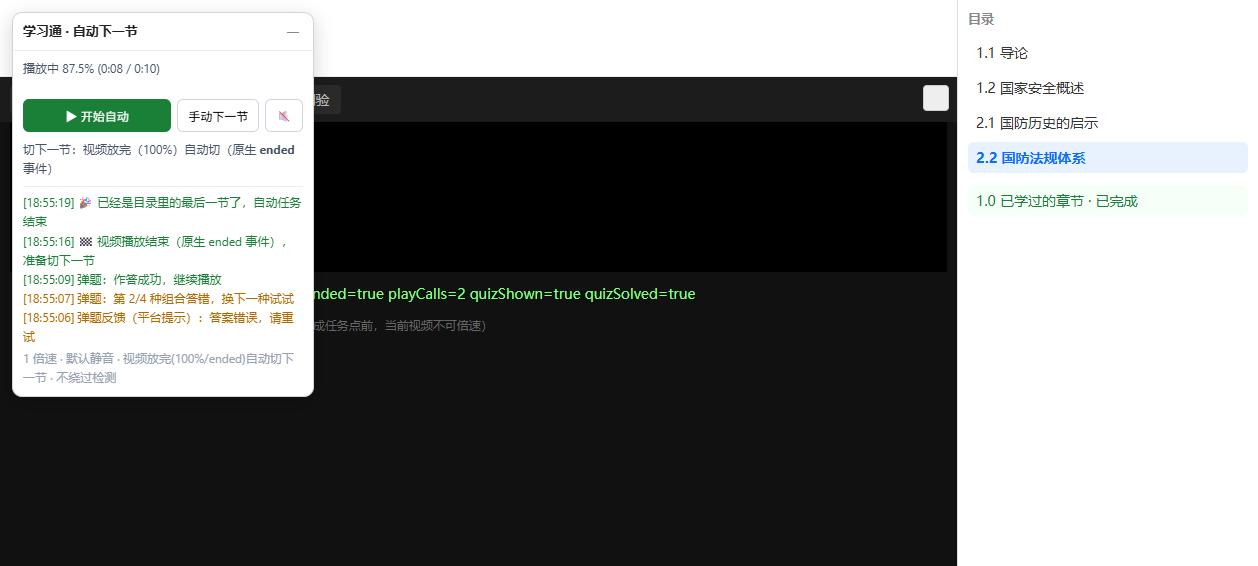
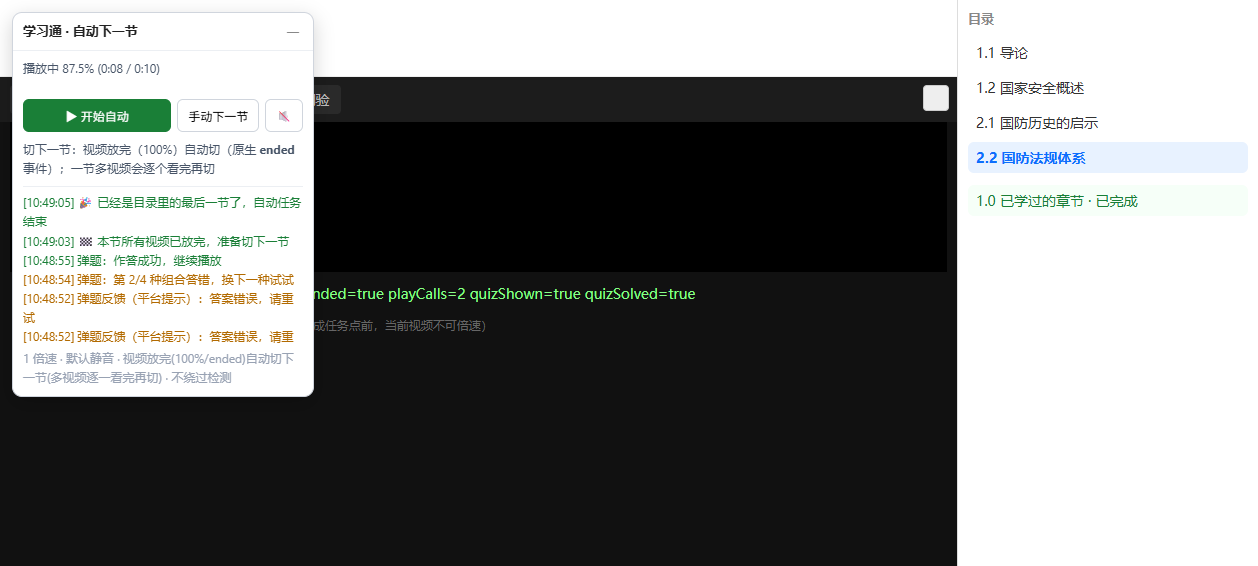
v1.3.21: 修复「一节多个视频时看完第一段就切走」的 bug
- 新增 watchedKeys 记录本节已放完的视频；切章收口到 handlePlaybackDone(key)
- 一段视频 ended 后先查 firstUnwatchedVisible：还有别的可见视频没看完就接着看（不切章），全部看完才 doSwitch
- 新增 activeVideos()（按 DOM 顺序）/ firstUnwatchedVisible()，主循环改选「本节还没放完的可见视频」
- doSwitch 切章成功后清空 watchedKeys，新节重新记
- mock 新增 index_multi.html + layer2_multi.html（一页两段视频）+ run_selftest_multi.sh 验证
- 自测双通过：多视频节两段都播到 100% 才切（switchStates 两 video ended=true），原 4 节连切回归无回归

diff --git a/chaoxing-auto-next.user.js b/chaoxing-auto-next.user.js
@@ -1,7 +1,7 @@
 // ==UserScript==
 // @name         超星学习通 · 自动播放 + 播完自动下一节
 // @namespace    workbuddy.chaoxing.autonext
-// @version      1.3.20
+// @version      1.3.21
 // @description  自动播放当前章节的视频；播放完成后自动点击右侧目录的下一节并继续播放。不加速、不绕过平台的防挂机检测（视频内弹出的单选/多选题会自动尝试作答，多选暴力枚举组合）。
 // @author       WorkBuddy
 // @match        *://*.chaoxing.com/mycourse/studentstudy*
@@ -16,6 +16,8 @@
  * 本脚本只做两件"免手动操作"的事：
  *   1) 进入某节后，自动点一下播放键（你本来也要点的）；
  *   2) 切下一节：视频播放到 100% 自然结束（原生 ended 事件）就自动切到下一节。v1.3.20 已彻底删除"智能/100%"阈值切换按钮，只保留这一种"默认百分百"行为（对齐主流 2.8k★ 脚本）：
+ *      · v1.3.21 起支持「一页多个视频」：某段视频放完后，先检查本节还有没有别的可见视频没看完——
+ *        有就接着看下一个（不切章），全部看完才切到下一节。
  *        · 进入某节、接管 <video> 后，给视频绑定原生 addEventListener('ended', …)；
  *        · 视频一旦播放到 100%（浏览器原生 ended 事件），等 SWITCH_DELAY_MS 让平台落库，再点右侧目录的下一节；
  *        · **不再轮询"任务点完成"徽章**（.ans-job-icon 的雪碧图换位 / aria-label——这些是平台易变、
@@ -76,6 +78,7 @@
   let lastKey = '';              // 当前已接管的视频标识
   let endedBoundVideo = null;     // 已绑定 ended 监听的视频元素（每个视频只绑一次）
   let endedSwitchInitiated = false; // 本视频的"播放结束→切下一节"是否已发起（防 ended 事件重复/抖动触发）
+  let watchedKeys = {};           // 本节（当前页面）已经放完的视频标识集合（多视频页：放完一个接着看下一个，全部放完才切章）
   let lastTabTryAt = 0;          // 上次尝试点「视频」标签的时间
   let tabMissLogged = false;     // 「本节没有视频标签」只提醒一次
   let quizState = null;          // 当前正在处理的弹题状态
@@ -148,6 +151,30 @@
     }
     out.sort(function (a, b) { return (b.duration || 0) - (a.duration || 0); });
     return out;
+  }
+
+  /* 当前页面里"看得见"的 <video>，按 DOM 顺序返回（多视频页用于从上到下逐个看）。
+     与 findVideos 不同：这里不按时长排序，保持页面上的先后顺序。 */
+  function activeVideos() {
+    const out = [];
+    const docs = collectDocs();
+    for (let i = 0; i < docs.length; i++) {
+      let vs = [];
+      try { vs = docs[i].querySelectorAll('video'); } catch (e) { continue; }
+      for (let j = 0; j < vs.length; j++) {
+        if (isVisible(vs[j])) out.push(vs[j]);
+      }
+    }
+    return out; // 已是各 document 内的 DOM 顺序（外层 doc 先、iframe 后）
+  }
+
+  /* 本节里第一个"还没放完"的可见视频（跳过已记入 watchedKeys 的） */
+  function firstUnwatchedVisible() {
+    const actives = activeVideos();
+    for (let i = 0; i < actives.length; i++) {
+      if (!watchedKeys[videoKey(actives[i])]) return actives[i];
+    }
+    return null;
   }
 
   function videoKey(v) {
@@ -558,6 +585,7 @@
       lastKey = '';
       tabMissLogged = false;
       lastTabTryAt = 0;
+      watchedKeys = {}; // 进入新的一节，清空"本节已放完视频"记录，重新从第一个视频看起
       setTimeout(function () { switching = false; }, ok ? 4000 : 1200);
     }, CFG.SWITCH_DELAY_MS);
   }
@@ -575,11 +603,29 @@
     try { v.addEventListener('ended', onVideoEnded); } catch (e) {}
   }
 
+  /* 一个视频放完（ended 事件或轮询兜底）的统一处理：
+     - 先把这个视频记入"已放完"；
+     - 再看本节还有没有"还没放完的可见视频"：有就接着看下一个（不切章），全部放完才切下一节。 */
+  function handlePlaybackDone(key) {
+    if (endedSwitchInitiated) return;            // 防止同一次结束被 ends 事件 + 轮询兜底重复处理
+    endedSwitchInitiated = true;
+    if (key) watchedKeys[key] = true;            // 标记本节这个视频已看完
+    const next = firstUnwatchedVisible();
+    if (next) {
+      /* 本节还有别的视频没看 → 不切章，接着看下一个 */
+      log('📼 本节还有未看完的视频，接着看下一个（不切章）', 'ok');
+      endedSwitchInitiated = false;              // 允许下一个视频放完时再次触发
+      lastKey = '';                              // 让 tick 接管下一个视频（重新播放+绑 ended）
+      return;
+    }
+    /* 本节所有可见视频都放完了 → 切下一节 */
+    log('🏁 本节所有视频已放完，准备切下一节', 'ok');
+    doSwitch();
+  }
+
   function onVideoEnded() {
     if (endedSwitchInitiated) return;            // 防 ended 事件重复/抖动触发
-    endedSwitchInitiated = true;
-    log('🏁 视频播放结束（原生 ended 事件），准备切下一节', 'ok');
-    doSwitch();
+    handlePlaybackDone(videoKey(endedBoundVideo));
   }
 
   /* ================================================================
@@ -609,17 +655,22 @@
       quizState = null;
     }
 
-    const vids = findVideos();
-    /* 优先用"看得见"的视频（隐藏的 <video> 播了也不算数） */
-    const v = vids.filter(isVisible)[0];
+    const vids = findVideos();                 // 仅用于"页面有没有视频"的状态判断
+    /* 多视频页：优先看"本节还没放完的可见视频"（按 DOM 顺序从上到下逐个看） */
+    const v = firstUnwatchedVisible();
 
     if (!v) {
-      if (vids.length) {
-        setStatus('检测到视频但当前标签页里看不到它，正在切到「视频」标签…');
-      } else {
-        setStatus('当前页面还没出现视频，正在尝试切到「视频」标签页…');
+      /* 没有"还没放完的可见视频"：
+         - 页面压根没有可见视频（视频标签没点 / 还没加载）→ 尝试切到「视频」标签；
+         - 可见视频都已记入 watchedKeys（本节已全部看完）→ 切章由 handlePlaybackDone 发起，这里等推进即可。 */
+      if (activeVideos().length === 0) {
+        if (vids.length) {
+          setStatus('检测到视频但当前标签页里看不到它，正在切到「视频」标签…');
+        } else {
+          setStatus('当前页面还没出现视频，正在尝试切到「视频」标签页…');
+        }
+        maybeClickVideoTab();
       }
-      maybeClickVideoTab();
       return;
     }
 
@@ -658,11 +709,10 @@
        不再轮询"任务点完成"徽章（.ans-job-icon 雪碧图/aria-label），也不再按百分比门槛提前跳——
        那些是平台易变、曾导致"页面已显示完成、脚本却不切"的东西。
        这里只做一道"ended 状态保底"：万一监听器漏接（如平台重建 video 元素），只要轮询发现
-       v.ended 且还没发起切换，就补一次切换（与 ended 事件同一条件，不是新增百分比逻辑）。 */
+       v.ended 且还没发起切换，就补一次（与 ended 事件同一处理：先看本节还有没有别的视频没看完，
+       全部看完才切章）。 */
     if (v.ended && !endedSwitchInitiated && !switching) {
-      log('🏁 视频已播完（ended 状态保底触发），准备切下一节', 'ok');
-      endedSwitchInitiated = true;
-      doSwitch();
+      handlePlaybackDone(key);
       return;
     }
   }
@@ -752,9 +802,9 @@
       '    <button id="cx-next" style="cursor:pointer;border:1px solid #d0d5dd;border-radius:6px;padding:7px 10px;background:#fff;font-size:12px;">手动下一节</button>',
       '    <button id="cx-mute" title="切换静音/有声" style="cursor:pointer;border:1px solid #d0d5dd;border-radius:6px;padding:7px 9px;background:#fff;font-size:13px;">🔇</button>',
       '  </div>',
-      '  <div style="color:#475467;margin:0 0 8px;">切下一节：视频放完（100%）自动切（原生 <b>ended</b> 事件）</div>',
+      '  <div style="color:#475467;margin:0 0 8px;">切下一节：视频放完（100%）自动切（原生 <b>ended</b> 事件）；一节多视频会逐个看完再切</div>',
       '  <div id="cx-log" style="max-height:150px;overflow-y:auto;border-top:1px solid #eceff3;padding-top:6px;"></div>',
-      '  <div style="color:#98a2b3;margin-top:6px;">1 倍速 · 默认静音 · 视频放完(100%/ended)自动切下一节 · 不绕过检测</div>',
+      '  <div style="color:#98a2b3;margin-top:6px;">1 倍速 · 默认静音 · 视频放完(100%/ended)自动切下一节(多视频逐一看完再切) · 不绕过检测</div>',
       '</div>'
     ].join('');
 

diff --git a/mock/index_multi.html b/mock/index_multi.html
@@ -1,0 +1,86 @@
+<!doctype html>
+<html lang="zh-CN">
+<head>
+<meta charset="utf-8">
+<title>MOCK 顶层页面（多视频节测试）</title>
+<style>
+  body { margin:0; font:14px "Microsoft YaHei",sans-serif; display:flex; height:100vh; }
+  #left { flex:1; display:flex; flex-direction:column; min-width:0; }
+  #content-head { padding:12px 16px; border-bottom:1px solid #eee; }
+  #ch-title { margin:0 0 8px; font-size:18px; color:#222; }
+  #tp-status { font-size:14px; color:#c87f0a; }
+  #iframe { flex:1; border:0; min-height:0; }
+  #right { width:280px; border-left:1px solid #ddd; padding:10px; overflow:auto; }
+  .posCatalog_level { padding:2px 0; }
+  .posCatalog_select { display:block; padding:6px 8px; border-radius:6px; cursor:pointer; color:#333; }
+  .posCatalog_select:hover { background:#f2f4f7; }
+  .posCatalog_active { background:#e8f2ff; color:#0d6efd; font-weight:700; }
+  .posCatalog_name { pointer-events:none; }
+  h3 { margin:0 0 8px; font-size:13px; color:#888; }
+</style>
+</head>
+<body>
+  <input type="hidden" id="curChapterId" value="2001">
+  <div id="left">
+    <div id="content-head">
+      <h2 id="ch-title">—</h2>
+      <div id="tp-status">任务点未完成</div>
+    </div>
+    <iframe id="iframe" src="about:blank"></iframe>
+  </div>
+  <div id="right">
+    <h3>目录</h3>
+    <div id="cat"></div>
+  </div>
+
+<script>
+  /* 两章：第 0 章是「一节里有两个视频」（multi），第 1 章是普通单视频。
+     验证脚本在第 0 章会逐个看完两个视频、再切到第 1 章，而不是看完第一个就切走。 */
+  var CHAPTERS = [
+    { id: 2001, name: '3.1 多视频节（两段视频）', multi: true },
+    { id: 2002, name: '3.2 单视频节' }
+  ];
+
+  var cat = document.getElementById('cat');
+  CHAPTERS.forEach(function (ch, i) {
+    var level = document.createElement('div');
+    level.className = 'posCatalog_level';
+    var sel = document.createElement('span');
+    sel.className = 'posCatalog_select';
+    sel.setAttribute('chapterid', String(ch.id));
+    sel.innerHTML = '<span class="posCatalog_name">' + ch.name + '</span>';
+    sel.addEventListener('click', function () { activate(i); });
+    level.appendChild(sel);
+    cat.appendChild(level);
+  });
+
+  window.__activated = [];
+
+  function activate(i) {
+    /* 切章前，先记录「上一节视频被切走那一刻」的状态（两个视频的播放/结束情况） */
+    try {
+      var of = document.getElementById('iframe');
+      var ovf = of && of.contentDocument && of.contentDocument.getElementById('vframe');
+      var ol2 = ovf && ovf.contentDocument && ovf.contentDocument.defaultView;
+      if (ol2 && typeof ol2.__state === 'function') {
+        window.__switchStates = (window.__switchStates || []).concat([ol2.__state()]);
+      }
+    } catch (e) {}
+    window.__activated.push(CHAPTERS[i].name);
+    document.querySelectorAll('.posCatalog_select').forEach(function (n) {
+      n.classList.remove('posCatalog_active');
+    });
+    document.querySelectorAll('.posCatalog_select')[i].classList.add('posCatalog_active');
+    document.getElementById('curChapterId').value = CHAPTERS[i].id;
+    document.getElementById('ch-title').textContent = CHAPTERS[i].name;
+    var st = document.getElementById('tp-status');
+    st.textContent = '任务点未完成';
+    st.style.color = '#c87f0a';
+    var q = CHAPTERS[i].multi ? '&multi=1' : '';
+    document.getElementById('iframe').src = 'layer1.html?n=' + (i + 1) + q;
+  }
+
+  activate(0);
+</script>
+</body>
+</html>

diff --git a/mock/layer2_multi.html b/mock/layer2_multi.html
@@ -1,0 +1,71 @@
+<!doctype html>
+<html lang="zh-CN">
+<head><meta charset="utf-8"><title>layer2_multi - 一页两个视频</title>
+<style>
+  html,body{margin:0;height:100%;background:#111;color:#eee;font:14px "Microsoft YaHei",sans-serif;position:relative}
+  .tabs{display:flex;gap:6px;padding:8px 10px;background:#1c1c1c}
+  .tab{padding:5px 12px;border-radius:4px;background:#2a2a2a;color:#bbb;cursor:pointer}
+  .tab.on{background:#3b6ea5;color:#fff}
+  #pane-video{display:block;padding:0 10px}
+  video{width:100%;height:34%;background:#000;object-fit:contain;display:block;margin-bottom:6px}
+  #hud{padding:8px 12px;color:#8f8;font-size:12px}
+</style>
+</head>
+<body>
+  <div class="tabs" id="tabs">
+    <span class="tab on" data-i="2">3 视频</span>
+  </div>
+  <!-- 模拟「一节里有两段视频」：两个真实可见的 <video>，分别用不同 src 区分 -->
+  <div id="pane-video">
+    <video id="v1"></video>
+    <video id="v2"></video>
+    <div id="hud">--</div>
+  </div>
+<script>
+  var n = new URLSearchParams(location.search).get('n') || '1';
+  var DUR = 10, MS_PER_SEC = 1000;
+
+  /* 造一个"假视频"：进度用真实时间算，播到 DUR 自动派发原生 ended 事件。
+     srcTag 用来让两个视频的 src 不同（脚本靠 src 区分"是不是同一个视频"）。 */
+  function makeFakeVideo(v, srcTag) {
+    v.setAttribute('src', 'mock-multi-' + srcTag + '.mp4');
+    var accum = 0, segStart = 0;
+    function segElapsed() { return segStart ? (Date.now() - segStart) / MS_PER_SEC : 0; }
+    function elapsed() { return accum + segElapsed(); }
+    Object.defineProperty(v, 'duration',    { get: function () { return DUR; }, configurable: true });
+    Object.defineProperty(v, 'currentTime', { get: function () { return Math.min(DUR, elapsed()); }, set: function () {}, configurable: true });
+    Object.defineProperty(v, 'paused',      { get: function () { return segStart === 0; }, configurable: true });
+    Object.defineProperty(v, 'ended',       { get: function () { return segStart !== 0 && elapsed() >= DUR; }, configurable: true });
+    var playKey = '__playCalls_' + srcTag;
+    window[playKey] = 0;
+    v.play  = function () { window[playKey]++; if (segStart === 0) segStart = Date.now(); return Promise.resolve(); };
+    v.pause = function () { if (segStart !== 0) { accum += segElapsed(); segStart = 0; } };
+    setInterval(function () {
+      if (v.ended && !v.__endedDispatched) {
+        v.__endedDispatched = true;
+        try { v.dispatchEvent(new Event('ended')); } catch (e) {}
+      }
+    }, 200);
+    return {
+      getState: function () {
+        return { src: srcTag, t: v.currentTime, paused: v.paused, ended: v.ended, playCalls: window[playKey] };
+      }
+    };
+  }
+
+  var f1 = makeFakeVideo(document.getElementById('v1'), 'a');
+  var f2 = makeFakeVideo(document.getElementById('v2'), 'b');
+
+  window.__state = function () {
+    return { n: n, multi: true, v1: f1.getState(), v2: f2.getState() };
+  };
+
+  setInterval(function () {
+    var v1 = document.getElementById('v1'), v2 = document.getElementById('v2');
+    document.getElementById('hud').textContent =
+      'multi  v1 t=' + v1.currentTime.toFixed(1) + '/' + DUR + ' ended=' + v1.ended +
+      ' | v2 t=' + v2.currentTime.toFixed(1) + '/' + DUR + ' ended=' + v2.ended;
+  }, 250);
+</script>
+</body>
+</html>

diff --git a/mock/layer1.html b/mock/layer1.html
@@ -20,7 +20,8 @@
   </div>
 <script>
   var n = new URLSearchParams(location.search).get('n') || '1';
-  document.getElementById('vframe').src = 'layer2.html?n=' + n;
+  var multi = new URLSearchParams(location.search).get('multi');
+  document.getElementById('vframe').src = (multi ? 'layer2_multi.html' : 'layer2.html') + '?n=' + n;
 
   /* 模拟超星落库完成：把当前任务点图标标记为已完成。
      真站完成态写在这两处（脚本据此判定）：

diff --git a/安装与使用说明.md b/安装与使用说明.md
@@ -47,7 +47,7 @@
 3. 点面板上的 **▶ 开始自动**。
 4. 之后：自动点播放 → 视频真实播完 → 自动点右侧目录的下一节 → 继续。你只需要让这个标签页保持在前台。
 5. 想停就点 **⏸ 暂停自动**；想手动跳一节就点 **手动下一节**；面板左上角 **—** 可折叠。面板右侧的 **🔇 / 🔊** 按钮是静音开关：默认静音（避免浏览器拦截带声自动播放），想听声音就点一下切回🔊，再点回🔇。
-6. 面板里写着 **「切下一节：视频放完（100%）自动切（原生 ended 事件）」**——这是 v1.3.20 起的行为说明，**无需再选模式**：脚本给当前视频绑定浏览器原生的 `ended` 事件，视频**播放到 100%（自然结束）**就自动点右侧目录的下一节。v1.3.20 已彻底删除旧版的「智能 / 100%」阈值切换按钮，现在只有"默认百分百"这一种行为。不再轮询"任务点完成"徽章（`.ans-job-icon` 的雪碧图/`aria-label`），也不再按百分比门槛提前跳——那两个正是之前"页面已显示完成、脚本却不切"的根因。若某节视频因平台在结尾插了"重新观看"而 `ended` 始终不触发，点一下面板「手动下一节」即可。
+6. 面板里写着 **「切下一节：视频放完（100%）自动切（原生 ended 事件）；一节多视频会逐个看完再切」**——这是 v1.3.20 起的行为说明，**无需再选模式**：脚本给当前视频绑定浏览器原生的 `ended` 事件，视频**播放到 100%（自然结束）**就自动点右侧目录的下一节。v1.3.20 已彻底删除旧版的「智能 / 100%」阈值切换按钮，现在只有"默认百分百"这一种行为。不再轮询"任务点完成"徽章（`.ans-job-icon` 的雪碧图/`aria-label`），也不再按百分比门槛提前跳——那两个正是之前"页面已显示完成、脚本却不切"的根因。**若一节里有多个视频**（少数章节会把两段视频放在同一页），脚本看完第一段不会急着切走，而是继续看本页下一段，直到本节所有视频都放完才切到下一节。若某节视频因平台在结尾插了"重新观看"而 `ended` 始终不触发，点一下面板「手动下一节」即可。
 
 面板右下角有实时日志（哪节在播、几点切到下一节、是否遇到弹题等）。
 
@@ -58,7 +58,7 @@
 | 功能              | 行为                                 |
 | --------------- | ---------------------------------- |
 | ✅ 自动播放          | 进入某节后自动点击播放键（你本来也要点的）              |
-| ✅ 播完自动下一节（默认百分百） | 由**视频原生 ended 事件**驱动（v1.3.20 起；已删除「智能/100%」阈值切换按钮）：给当前 `<video>` 绑定 `addEventListener('ended', …)`，视频**播放到 100%（自然结束）**才自动点右侧目录的下一节；**不再轮询**「任务点完成」徽章（`.ans-job-icon` 雪碧图/`aria-label`——平台易变、曾是"已显示完成却不切"的根因），**也不按百分比提前跳**。另设一道 `v.ended` 状态保底：万一监听器漏接（如平台重建 video 元素）就补一次切换。 |
+| ✅ 播完自动下一节（默认百分百） | 由**视频原生 ended 事件**驱动（v1.3.20 起；已删除「智能/100%」阈值切换按钮）：给当前 `<video>` 绑定 `addEventListener('ended', …)`，视频**播放到 100%（自然结束）**才自动点右侧目录的下一节；**不再轮询**「任务点完成」徽章（`.ans-job-icon` 雪碧图/`aria-label`——平台易变、曾是"已显示完成却不切"的根因），**也不按百分比提前跳**。另设一道 `v.ended` 状态保底：万一监听器漏接（如平台重建 video 元素）就补一次切换。**一节含多个视频时**（v1.3.21 起）：某段视频放完后，先检查本节还有没有别的可见视频没看完——有就接着看下一个（不切章），全部看完才切到下一节。 |
 | ✅ 弹题自动作答（单选+多选） | 视频中途弹出**单选/多选题**时自动作答：单选逐个试选项、多选暴力枚举所有组合逐个试，答错或提交后 2.7 秒无反馈就换下一组重提交，直到答对（所有组合都试完仍无确定反馈才停下让你手动） |
 | ✅ 默认静音自动播放      | 浏览器普遍拦截"带声音的自动播放"，所以默认**静音**播放最稳；面板右侧 🔇/🔊 可一键切回有声 |
 | ✅ 遇到非视频节点       | 当前是音频/文档/测验且没找到视频时，会停下提醒你，不会替你跳过   |
@@ -75,7 +75,7 @@
 - **不要一次刷太猛**。连着刷几十节容易触发平台风控。建议分批、间隔着来。
 - **遇到章节测验/作业，脚本会停下来**等你自己做；做完再点"手动下一节"或等它继续。
 - 超星偶尔改版（前端结构变化），目录/视频选择器可能失效。若面板报"没找到右侧课程目录"，多半是改版了，告诉我，我再更新选择器。
-- **关于"看完"的判定（v1.3.20 起）**：脚本不再靠"平台把任务点标记为已完成"或"播放百分比"来判定是否看完，而是直接监听视频**原生 `ended` 事件**——视频**播放到 100%（自然结束）**就切下一节。这避开了之前"页面已显示完成、脚本却不切"的根因（那个完成徽章的 DOM 表达平台会变、且常出现在视频还差几秒没播完时）。旧版的「智能 / 100%」阈值切换按钮已在 v1.3.20 删除，现在统一为"默认百分百（放完即切）"。若某节视频因平台在结尾插入"重新观看/再看一遍"而 `ended` 始终不触发，点一下面板「手动下一节」即可。
+- **关于"看完"的判定（v1.3.20 起）**：脚本不再靠"平台把任务点标记为已完成"或"播放百分比"来判定是否看完，而是直接监听视频**原生 `ended` 事件**——视频**播放到 100%（自然结束）**就切下一节。这避开了之前"页面已显示完成、脚本却不切"的根因（那个完成徽章的 DOM 表达平台会变、且常出现在视频还差几秒没播完时）。旧版的「智能 / 100%」阈值切换按钮已在 v1.3.20 删除，现在统一为"默认百分百（放完即切）"。**一节多视频（v1.3.21 起）**：判定"看完"是**按整节算**的——一段视频 `ended` 后，脚本会检查本节还有没有别的可见视频没看完，有就继续看本页下一段（不切章），只有本节所有可见视频都放完才切到下一节。**因此即使一节里有两段视频，也不会出现"看完第一段就跳走、漏掉第二段"的情况。** 若某节视频因平台在结尾插入"重新观看/再看一遍"而 `ended` 始终不触发，点一下面板「手动下一节」即可。
 
 ---
 
@@ -100,12 +100,15 @@
 - **弹题自动作答验证**：每节视频播到一半弹出【单选/多选题】，脚本自动尝试作答——单选逐个试选项、多选暴力枚举组合（绝不试"只选 1 个"的无效组合），答错（平台弹 alert）换下一组→ 答对（弹题消失）→ 继续播放，全程无需手动；偶数节为多选题、奇数节为单选题，两种路径都验证通过；
 - 最后一节播完后正确停止，并提示"已经是目录里的最后一节"。
 - 截图见 `mock/selftest-quiz.png`（含弹题作答与 ended 触发日志）。最新一轮自测（v1.3.20）在 v1.3.19 基础上**彻底删除了智能模式/阈值的全部残留代码**（约 250 行死代码），只保留 ended 事件这一种"默认百分百"行为；mock 让假视频在播完时 `dispatchEvent(new Event('ended'))`，并保留 50% 提前"完成标记"作为红鲱鱼——结果 4 节切走时 `ended=true`（视频真正播完才切）、50% 标记全程未触发切换，证明触发已改为 ended 事件驱动。
+- **多视频节自测（v1.3.21）**：`mock/index_multi.html` + `mock/layer2_multi.html` 模拟"一节里放两段视频"，用 `mock/run_selftest_multi.sh` 无头实跑。结果：脚本先看第一段（`🎬 检测到视频：mock-multi-a.mp4`）→ 第一段 `ended` 后打印 `📼 本节还有未看完的视频，接着看下一个（不切章）` → 接着看第二段（`🎬 检测到视频：mock-multi-b.mp4`）→ 两段都放完才 `🏁 本节所有视频已放完，准备切下一节` 并切到 3.2；`switchStates[0]` 中 `v1.ended=true,playCalls=1` 且 `v2.ended=true,playCalls=1`（两段都被播到 100%），`activated` 里该多视频节只出现一次（没有看完第一段就跳走）。截图见 `mock/selftest-multi.png`。
 
 > 这个 mock 只用于验证逻辑，跟真实的超星页面无关，平时用不到，可删。
 
 ---
 
 ## 七、版本更新
+
+- **v1.3.21**（2026-10-14）：**修复"一节里有多个视频时，看完第一段就切走、漏掉后面视频"的 bug。** 根因：v1.3.20 的切章触发是"第一个 `<video>` 的 `ended` 一响就 `doSwitch()`"——如果同页有多个可见视频，`findVideos()` 按时长排序只挑最长的那一个接管，它一放完脚本就直接跳下一章，后面的视频被整段跳过。修复做法：新增 `watchedKeys` 记录"本节已放完的视频"，把"要不要切章"收口到一个 `handlePlaybackDone(key)` 函数——某视频 `ended` 后，先把它记入已放完集合，再查 `firstUnwatchedVisible()`：① 本节还有别的可见视频没看完 → 重置 `lastKey` 让主循环接管下一段（**不切章**）；② 全部看完了 → 才 `doSwitch()` 切下一节（`doSwitch` 成功切章后会清空 `watchedKeys`，新节重新记）。`findVideos` 之外新增 `activeVideos()`（按 DOM 顺序返回可见视频）与 `firstUnwatchedVisible()`，主循环改为"优先看本节还没放完的可见视频"。**自测双通过**：① 新增 `mock/index_multi.html`（`layer2_multi.html` 一页两段视频）+ `mock/run_selftest_multi.sh`——结果面板日志出现 `📼 本节还有未看完的视频，接着看下一个（不切章）` 后再 `🏁 本节所有视频已放完，准备切下一节`，`switchStates[0]` 里 `v1.ended=true,playCalls=1` 且 `v2.ended=true,playCalls=1`（两段都播到 100%），`activated` 里该节只出现一次（没有看完第一段就跳走）；② 原 4 节连切回归测试无回归（`switchStates` 全 `ended=true`，弹题作答正常，末节正确停在"已经是目录里的最后一节了"）。
 
 - **v1.3.20**（2026-10-13）：**按用户要求彻底删除「智能模式」与「看完阈值」的全部残留代码，只保留"默认百分百（视频播放到 100% 自动切）"这一种行为。** v1.3.19 虽然把切下一节的触发从"轮询任务点完成徽章/百分比门槛"换成了"视频原生 ended 事件"，但代码里仍残留了整套智能模式的死代码（`.ans-job-icon` 状态探测、`currentAttachCt`/`jobIconDone`/`detectVideoTaskCompleted`、`readVideoTaskThreshold`、`diagJobIcons` 等约 250 行）以及 `finishMode`/`videoTaskThreshold`/`COMPLETE_MAXWAIT_MS` 等不再起作用的变量与配置。本次用脚本一次性删除这些尸体（共砍掉约 250 行，文件从 ~1135 行降到 900 行），并清掉 tick 里的 `.ans-job-icon` 一次性诊断日志、面板"智能/100%"按钮说明，把触发逻辑统一描述为"视频放完（100%）自动切（原生 ended 事件）"。**自测无回归**：mock 无头跑 4 节连切（1.1→1.2→2.1→2.2），`switchStates` 全部 `ended=true, t:10`（真正播完才切），弹题暴力作答（单选/多选）正常，末节正确停在"已经是目录里的最后一节了"，面板日志干净（不再有 `.ans-job-icon` 诊断噪音）。
 
